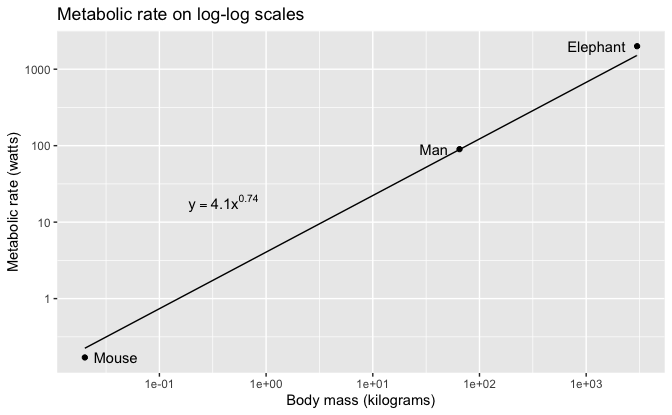
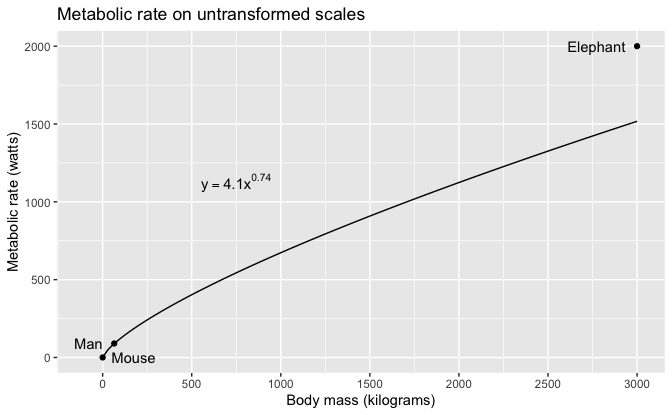
Initial commit

diff --git a/Metabolic/metabolic_tv.md b/Metabolic/metabolic_tv.md
@@ -1,7 +1,7 @@
 Regression and Other Stories: Metabolic
 ================
 Andrew Gelman, Jennifer Hill, Aki Vehtari
-2020-12-08
+2020-12-15
 
 -   [Data](#data)
 -   [Plots](#plots)
@@ -34,7 +34,7 @@ source(file_common)
 ## Data
 
 ``` r
-metabolic_rate <- 
+metabolic_rates <- 
   tribble(
        ~animal, ~mass, ~metabolic_rate, ~hjust,
        "Mouse",  0.02,            0.17,   -0.2,
@@ -51,8 +51,8 @@ slope <- 0.74
 ``` r
 power_law <- 
   tibble(
-    x = seq(0.02, 3000, length.out = 101),
-    y = exp(intercept) * x^slope
+    mass = seq(0.02, 3000, length.out = 101),
+    metabolic_rate = exp(intercept) * mass^slope
   )
 
 eqn <- 
@@ -63,16 +63,16 @@ eqn <-
 ```
 
 ``` r
-metabolic_rate %>% 
-  ggplot() +
-  geom_point(aes(mass, metabolic_rate)) +
-  geom_text(aes(mass, metabolic_rate, label = animal, hjust = hjust)) +
-  geom_line(aes(x, y), data = power_law) +
-  annotate("text", x = 0.4, y = 18, label = eqn, parse = TRUE) +
-  scale_x_log10() +
-  scale_y_log10() +
+metabolic_rates %>% 
+  ggplot(aes(mass, metabolic_rate)) +
+  geom_line(data = power_law) +
+  geom_point() +
+  geom_text(aes(label = animal, hjust = hjust)) +
+  annotate("text", x = 750, y = 1125, label = eqn, parse = TRUE) +
+  scale_x_continuous(breaks = scales::breaks_width(500)) +
+  coord_cartesian(xlim = c(-100, NA)) +
   labs(
-    title = "Metabolic rate on log-log scales",
+    title = "Metabolic rate on untransformed scales",
     x = "Body mass (kilograms)",
     y = "Metabolic rate (watts)"
   )
@@ -81,16 +81,18 @@ metabolic_rate %>%
 <img src="metabolic_tv_files/figure-gfm/unnamed-chunk-4-1.png" style="display: block; margin: auto;" />
 
 ``` r
-metabolic_rate %>% 
-  ggplot() +
-  geom_point(aes(mass, metabolic_rate)) +
-  geom_text(aes(mass, metabolic_rate, label = animal, hjust = hjust)) +
-  geom_line(aes(x, y), data = power_law) +
-  annotate("text", x = 750, y = 1125, label = eqn, parse = TRUE) +
-  scale_x_continuous(breaks = scales::breaks_width(500)) +
-  coord_cartesian(xlim = c(-100, NA)) +
+metabolic_rates %>% 
+  ggplot(aes(mass, metabolic_rate)) +
+  geom_line(data = power_law) +
+  geom_point() +
+  geom_text(aes(label = animal, hjust = hjust)) +
+  annotate("text", x = 0.4, y = 18, label = eqn, parse = TRUE) +
+  scale_x_log10(
+    labels = scales::label_number(big.mark = "", drop0trailing = TRUE)
+  ) +
+  scale_y_log10() +
   labs(
-    title = "Metabolic rate on untransformed scales",
+    title = "Metabolic rate on log-log scales",
     x = "Body mass (kilograms)",
     y = "Metabolic rate (watts)"
   )
